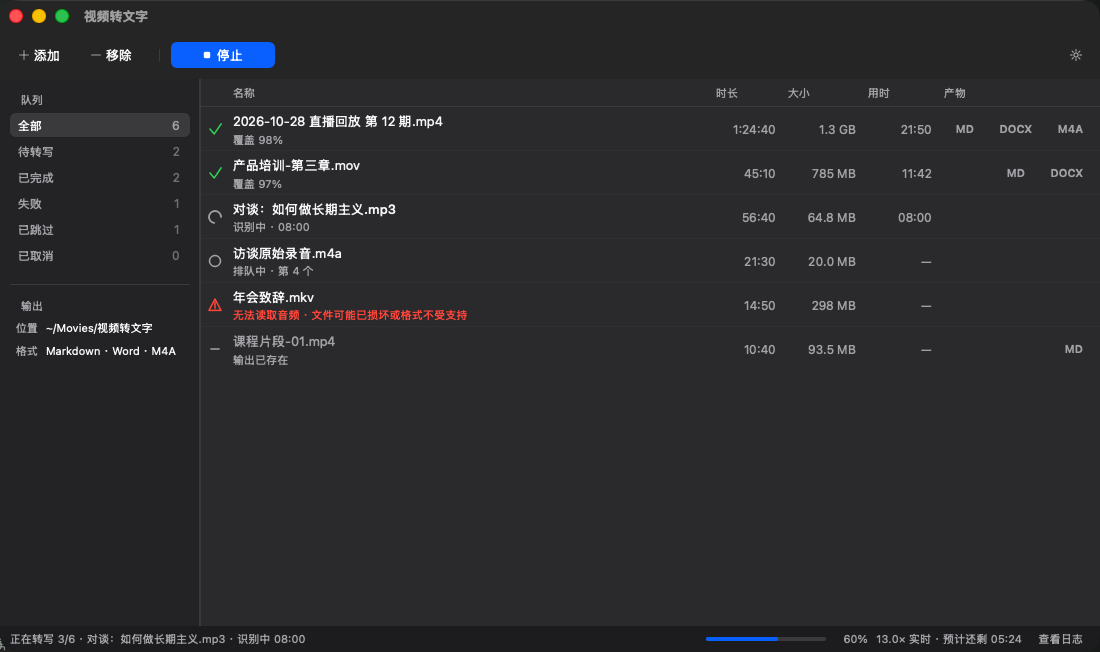
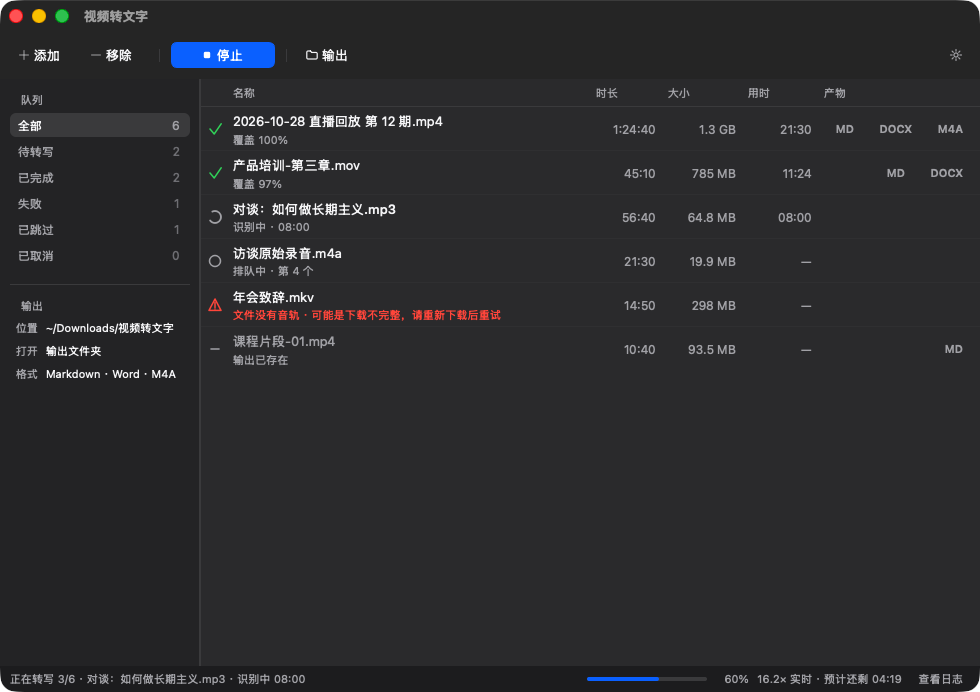
Save results in Downloads and make them easy to open
New installs now write under ~/Downloads/视频转文字, and settings that
still hold the old default migrate on load without touching custom
folders. The output folder is reachable from the toolbar, the sidebar,
the preferences dialog, a task's context menu, or by double-clicking a
finished row.

diff --git a/src/video_to_text/gui/window.py b/src/video_to_text/gui/window.py
@@ -271,6 +271,15 @@ class MainWindow(QMainWindow):
         self.start_button.clicked.connect(self._start_or_stop)
         bar.addWidget(self.start_button)
 
+        bar.addSeparator()
+
+        self.output_button = QToolButton()
+        self.output_button.setText("输出")
+        self.output_button.setToolButtonStyle(Qt.ToolButtonTextBesideIcon)
+        self.output_button.setToolTip("打开输出文件夹")
+        self.output_button.clicked.connect(self._open_output_dir)
+        bar.addWidget(self.output_button)
+
         spacer = QWidget()
         spacer.setSizePolicy(QSizePolicy.Expanding, QSizePolicy.Preferred)
         bar.addWidget(spacer)
@@ -394,9 +403,11 @@ class MainWindow(QMainWindow):
     def _connect(self) -> None:
         self.sidebar.filterChanged.connect(self._set_filter)
         self.sidebar.locationClicked.connect(self._pick_output_dir)
+        self.sidebar.openFolderClicked.connect(self._open_output_dir)
         self.sidebar.formatClicked.connect(lambda: self._open_prefs(TAB_FORMAT))
         self.content.pathsDropped.connect(self._add_paths)
         self.table.openOutputRequested.connect(self._open_output)
+        self.table.outputFolderRequested.connect(self._open_output_dir)
         self.table.revealRequested.connect(lambda path: reveal_path(Path(path)))
         self.table.retryRequested.connect(self._retry_task)
         self.table.copyPathRequested.connect(self._copy_path)
@@ -471,6 +482,7 @@ class MainWindow(QMainWindow):
         colors = tokens.active()
         self.add_button.setIcon(icon("plus", colors["text.primary"], 16))
         self.remove_button.setIcon(icon("minus", colors["text.primary"], 16))
+        self.output_button.setIcon(icon("folder", colors["text.primary"], 16))
         self.prefs_button.setIcon(icon("gear", colors["text.secondary"], 16))
         accent_fg = styles.accent_text(accent)
         if not self._running and not self.start_button.isEnabled():
@@ -493,6 +505,9 @@ class MainWindow(QMainWindow):
         self.sidebar.set_output(
             str(self.settings.get("output_dir") or ""),
             output_summary(formats, audio),
+        )
+        self.output_button.setToolTip(
+            f"打开输出文件夹\n{self.settings.get('output_dir') or ''}"
         )
         self.force_action.blockSignals(True)
         self.force_action.setChecked(bool(self.settings.get("force")))
@@ -763,6 +778,7 @@ class MainWindow(QMainWindow):
         snapshot = self.manager.snapshot()
         job = snapshot["job"]
         tasks = snapshot["tasks"]
+        was_running = self._running
         self._job = job
         self._tasks = tasks
         self._running = bool(job["running"])
@@ -786,6 +802,13 @@ class MainWindow(QMainWindow):
 
         if job["finished_at"]:
             self._job_finished = True
+        if was_running and not self._running and job.get("state") == "done":
+            made = counts.get("done", 0) + counts.get("skipped", 0)
+            if made:
+                self._flash(
+                    f"已生成 {made} 个输出 · {display_path(str(self._output_dir()))}",
+                    6000,
+                )
 
     def _filtered(self, tasks: list[dict]) -> list[dict]:
         key = self.sidebar.current_filter()

diff --git a/src/video_to_text/gui/tasklist.py b/src/video_to_text/gui/tasklist.py
@@ -193,6 +193,7 @@ class _Row:
 
 class TaskList(QTreeWidget):
     openOutputRequested = Signal(str, str)
+    outputFolderRequested = Signal()
     revealRequested = Signal(str)
     retryRequested = Signal(str)
     copyPathRequested = Signal(str)
@@ -240,6 +241,7 @@ class TaskList(QTreeWidget):
         self._hover = ""
 
         self.itemClicked.connect(self._item_clicked)
+        self.itemDoubleClicked.connect(self._item_double_clicked)
         self.customContextMenuRequested.connect(self._context_menu)
         self.itemSelectionChanged.connect(self.selectionChanged)
         self._spin = QTimer(self)
@@ -322,6 +324,8 @@ class TaskList(QTreeWidget):
             item.setTextAlignment(column, Qt.AlignRight | Qt.AlignVCenter)
 
         tips = [str(task.get("path") or ""), str(item.data(1, ROLE_DETAIL) or "")]
+        if status in {"done", "skipped"} and task.get("outputs"):
+            tips.append("双击打开文稿")
         warnings = task.get("warnings") or []
         if warnings:
             tips.append("提示：" + "；".join(warnings))
@@ -436,6 +440,18 @@ class TaskList(QTreeWidget):
             item.setExpanded(not item.isExpanded())
             self._position_errors()
 
+    def _item_double_clicked(self, item: QTreeWidgetItem, _column: int) -> None:
+        if item.parent() is not None:
+            item = item.parent()
+        task = self._tasks.get(str(item.data(0, ROLE_ID) or ""))
+        if task is None or task["status"] not in {"done", "skipped"}:
+            return
+        outputs = task.get("outputs") or {}
+        for kind in OUTPUT_KINDS:
+            if kind in outputs:
+                self.openOutputRequested.emit(task["id"], kind)
+                return
+
     def resizeEvent(self, event) -> None:  # noqa: N802
         super().resizeEvent(event)
         self._position_errors()
@@ -471,8 +487,10 @@ class TaskList(QTreeWidget):
         task = self._tasks.get(str(item.data(0, ROLE_ID) or "")) if item is not None else None
         menu = QMenu(self)
         if task is not None:
+            open_folder = menu.addAction("打开输出文件夹")
+            open_folder.triggered.connect(lambda: self.outputFolderRequested.emit())
             reveal = menu.addAction(
-                "在访达中显示" if sys.platform == "darwin" else "打开所在文件夹"
+                "在访达中显示源文件" if sys.platform == "darwin" else "打开源文件所在文件夹"
             )
             reveal.triggered.connect(lambda: self.revealRequested.emit(str(task["path"])))
             outputs = task.get("outputs") or {}

diff --git a/src/video_to_text/gui/prefs.py b/src/video_to_text/gui/prefs.py
@@ -14,6 +14,7 @@ from PySide6.QtWidgets import (
     QHBoxLayout,
     QLabel,
     QLineEdit,
+    QMessageBox,
     QPushButton,
     QTabWidget,
     QVBoxLayout,
@@ -75,12 +76,18 @@ class PreferencesDialog(QDialog):
         row.setSpacing(8)
         self.output_edit = QLineEdit()
         self.output_edit.setReadOnly(True)
+        self.open_output_button = QPushButton("打开")
+        self.open_output_button.clicked.connect(self._open_output)
         self.change_output_button = QPushButton("更改…")
         self.change_output_button.clicked.connect(self._pick_output)
         row.addWidget(self.output_edit, 1)
+        row.addWidget(self.open_output_button)
         row.addWidget(self.change_output_button)
         layout.addLayout(row)
-        layout.addWidget(_hint("转写产物保存到这个文件夹；不存在的文件夹会自动创建。"))
+        layout.addWidget(_hint(
+            "转写产物默认保存在“下载/视频转文字”，也可以点“更改…”另选文件夹；"
+            "不存在的文件夹会自动创建。"
+        ))
         layout.addStretch(1)
         return page
 
@@ -205,6 +212,17 @@ class PreferencesDialog(QDialog):
             self.output_edit.setText(folder)
             self.output_edit.setToolTip(folder)
             self._changed()
+
+    def _open_output(self) -> None:
+        folder = Path(
+            self.output_edit.text().strip() or config.default_output_dir()
+        ).expanduser()
+        try:
+            folder.mkdir(parents=True, exist_ok=True)
+        except OSError as exc:
+            QMessageBox.warning(self, "无法打开文件夹", str(exc))
+            return
+        open_path(folder)
 
     def _collect(self) -> dict:
         formats = []

diff --git a/tests/test_config.py b/tests/test_config.py
@@ -53,6 +53,30 @@ class ConfigTests(unittest.TestCase):
                 loaded = config.load_settings()
             self.assertEqual(loaded, config.defaults())
 
+    def test_default_output_lives_in_downloads(self):
+        self.assertEqual(
+            config.defaults()["output_dir"],
+            str(Path.home() / "Downloads" / "视频转文字"),
+        )
+
+    def test_legacy_default_output_migrates(self):
+        legacy = str(Path.home() / "Documents" / "Video to Text")
+        with tempfile.TemporaryDirectory() as tmp:
+            path = Path(tmp) / "settings.json"
+            path.write_text(json.dumps({"output_dir": legacy}), encoding="utf-8")
+            with mock.patch.object(config, "config_dir", lambda: Path(tmp)):
+                loaded = config.load_settings()
+        self.assertEqual(loaded["output_dir"], str(config.default_output_dir()))
+
+    def test_custom_output_is_not_migrated(self):
+        custom = str(Path.home() / "Videos" / "我的文稿")
+        with tempfile.TemporaryDirectory() as tmp:
+            path = Path(tmp) / "settings.json"
+            path.write_text(json.dumps({"output_dir": custom}), encoding="utf-8")
+            with mock.patch.object(config, "config_dir", lambda: Path(tmp)):
+                loaded = config.load_settings()
+        self.assertEqual(loaded["output_dir"], custom)
+
     def test_save_uses_validated_copy(self):
         with tempfile.TemporaryDirectory() as tmp:
             with mock.patch.object(config, "config_dir", lambda: Path(tmp)):

diff --git a/src/video_to_text/gui/sidebar.py b/src/video_to_text/gui/sidebar.py
@@ -156,6 +156,7 @@ class Sidebar(QFrame):
     filterChanged = Signal(str)
     locationClicked = Signal()
     formatClicked = Signal()
+    openFolderClicked = Signal()
 
     def __init__(self) -> None:
         super().__init__()
@@ -188,6 +189,10 @@ class Sidebar(QFrame):
         self.location_row.clicked.connect(self.locationClicked)
         layout.addWidget(self.location_row)
 
+        self.open_row = OutputRow("打开")
+        self.open_row.clicked.connect(self.openFolderClicked)
+        layout.addWidget(self.open_row)
+
         self.format_row = OutputRow("格式")
         self.format_row.clicked.connect(self.formatClicked)
         layout.addWidget(self.format_row)
@@ -204,10 +209,14 @@ class Sidebar(QFrame):
         self.filters.set_filter(key)
 
     def set_output(self, location: str, formats: str) -> None:
-        self.location_row.set_value(display_path(location), location)
+        self.location_row.set_value(
+            display_path(location), f"{location}\n点击更改保存位置"
+        )
+        self.open_row.set_value("输出文件夹", "在文件管理器中打开输出文件夹")
         self.format_row.set_value(formats or "未选择", formats)
 
     def refresh_theme(self) -> None:
         self.filters.viewport().update()
         repolish(self.location_row)
+        repolish(self.open_row)
         repolish(self.format_row)

diff --git a/tests/test_ui.py b/tests/test_ui.py
@@ -79,6 +79,7 @@ class MainWindowTests(unittest.TestCase):
 
     def test_initial_state(self):
         self.assertFalse(self.window.start_button.isEnabled())
+        self.assertTrue(self.window.output_button.isEnabled())
         self.assertEqual(self.window.table.topLevelItemCount(), 0)
         self.assertIs(
             self.window.content.stack.currentWidget(), self.window.empty_page
@@ -147,6 +148,23 @@ class MainWindowTests(unittest.TestCase):
         self.assertEqual(self.window._job["state"], "done")
         self.assertEqual(self.window._job["skipped"], 2)
         self.assertEqual(self.window._counts["skipped"], 2)
+
+    def test_double_click_opens_primary_output(self):
+        paths = self._add_media(1)
+        self._write_markdown(paths[0])
+        self.window.settings["formats"] = ["md"]
+        self.window.settings["audio_format"] = "none"
+        self.window._apply_settings_ui()
+        self.window._start_job()
+        self.window._refresh(force=True)
+        opened: list[str] = []
+        self.window.table.openOutputRequested.connect(
+            lambda _task_id, kind: opened.append(kind)
+        )
+        self.window.table._item_double_clicked(
+            self.window.table.topLevelItem(0), 1
+        )
+        self.assertEqual(opened, ["md"])
 
     def test_styles_build_for_both_schemes(self):
         for dark in (False, True):

diff --git a/src/video_to_text/config.py b/src/video_to_text/config.py
@@ -20,9 +20,16 @@ def config_dir() -> Path:
 
 
 def default_output_dir() -> Path:
-    docs = Path.home() / "Documents"
-    base = docs if docs.is_dir() else Path.home()
-    return base / "Video to Text"
+    return Path.home() / "Downloads" / "视频转文字"
+
+
+def legacy_output_dirs() -> set[str]:
+    """Defaults used before 1.0; loading one of these upgrades it silently."""
+    home = Path.home()
+    return {
+        str(home / "Documents" / "Video to Text"),
+        str(home / "Video to Text"),
+    }
 
 
 def defaults() -> dict:
@@ -62,7 +69,10 @@ def load_settings() -> dict:
     try:
         with path.open(encoding="utf-8") as fh:
             data = json.load(fh)
-        return _valid(data if isinstance(data, dict) else {})
+        out = _valid(data if isinstance(data, dict) else {})
+        if out["output_dir"] in legacy_output_dirs():
+            out["output_dir"] = str(default_output_dir())
+        return out
     except (OSError, ValueError):
         return defaults()
 

diff --git a/README.md b/README.md
@@ -19,6 +19,7 @@
 
 - 选择多个文件或整个文件夹批量转写；递归读取子文件夹，也可以直接把文件、文件夹拖进窗口。
 - 队列可按状态筛选（待转写 / 已完成 / 失败 / 已跳过 / 已取消），逐行查看时长、大小、用时和已经生成的产物。
+- 产物默认保存到“下载/视频转文字”；工具栏“输出”、侧栏“打开”、双击任务行都可以一步打开结果，保存位置也可随时更改。
 - 导出 Markdown（`.md`）与 Word（`.docx`），同时可导出 M4A（默认）或 WAV 音频。
 - 每篇文稿包含：带时间轴的逐句文稿、连续文稿、以及“数据来源与局限”。
 - 同一来源的文稿已存在时自动跳过；在偏好设置里勾选“重新转写已存在的文稿”可强制覆盖。
@@ -73,10 +74,10 @@
 ## 使用
 
 1. **添加素材**：点工具栏“添加 ▾”，选“选择文件…”（⌘O）或“选择文件夹…”（⇧⌘O）；也可以把文件、文件夹直接拖进窗口。文件夹会递归读取。
-2. **设置输出**：点左侧“位置”更换保存目录，点“格式”打开格式设置；也可以按 ⌘, 打开偏好设置。文稿至少选 Markdown 或 Word 之一，音频可选 M4A、WAV 或不导出。
+2. **设置输出**：默认保存在“下载/视频转文字”。点左侧“位置”可以更换保存目录，点“打开”直接打开输出文件夹；点“格式”打开格式设置，也可以按 ⌘, 打开偏好设置。文稿至少选 Markdown 或 Word 之一，音频可选 M4A、WAV 或不导出。
 3. **开始转写**：点“开始转写”（⌘↩）。列表里正在处理的文件会显示当前阶段和已用时间；底部状态条显示按素材时长加权的总进度、速度和预计剩余时间。速度和剩余时间都是估算值，素材差异大时会有偏差。
 4. **运行中**：按钮变成“停止”（⌘.）。停止立即生效：当前文件不留下不完整的产物，已完成的结果保留，未开始的文件标记为“已取消”。运行期间不能添加或移除素材，对应操作会禁用。
-5. **查看结果**：点任务行尾的 MD / DOCX / M4A 按钮直接打开对应产物，或点底部“打开输出文件夹”。失败的行点左侧状态图标可展开完整错误；“查看日志”会展开底部日志抽屉。
+5. **查看结果**：点任务行尾的 MD / DOCX / M4A 按钮直接打开对应产物，或双击任务行打开主文稿；工具栏常驻的“输出”按钮和底部“打开输出文件夹”随时打开保存目录。失败的行点左侧状态图标可展开完整错误；“查看日志”会展开底部日志抽屉。
 
 偏好设置 → 性能里可以设置同时转写的文件数（1–4）和是否强制重新转写。并发 2 能提高总吞吐但更吃内存，16 GB 内存建议 1–2。
 
@@ -140,7 +141,7 @@ macOS 产物是 `dist/视频转文字.app`，Windows 产物是 `dist/VideoToText
 
 ## 验证状态（2026-10-30）
 
-- 界面改版（2026-10-30）：macOS Apple Silicon 原生窗口完成浅色 / 深色视觉验收，截图取自真实窗口（`docs/screenshot.png`、`docs/screenshot-dark.png`），不是效果图；源码自检退出码 0；测试共 42 项全部通过（不加载模型，覆盖任务队列与离屏 Qt 界面）。
+- 界面改版（2026-10-30）：macOS Apple Silicon 原生窗口完成浅色 / 深色视觉验收，截图取自真实窗口（`docs/screenshot.png`、`docs/screenshot-dark.png`），不是效果图，且已按 1.0 的新工具栏与“打开”入口重拍；源码自检退出码 0；测试共 46 项全部通过（不加载模型，覆盖任务队列、输出路径迁移与离屏 Qt 界面）。
 - 仓库审查（2026-10-30）：CI 在 push / pull request 时于 Ubuntu、macOS arm64、Windows 三平台运行测试，只有打 tag 或手动触发才构建安装包；ffmpeg 下载按 PyPI 公布的 SHA-256 校验；应用版本号统一取自 `pyproject.toml`。
 - 打包：`dist/视频转文字.app` 已用 PyInstaller 6.22.3 按当前 spec 重建（版本号读取自 `pyproject.toml`），自检全项通过（ffmpeg、torch / FunASR / ModelScope、多进程、音频抽取与 M4A、断句标点、Markdown、DOCX、Qt、图标）；ad-hoc 签名 `codesign --verify --deep --strict` 通过；重新启动后确认新工具栏、侧边栏、空状态与底部状态条渲染正常。重新生成的 `VideoToText-macos-arm64.zip` 解压后签名验证与自检同样通过，SHA-256 见 `SHA256SUMS.txt`。
 - 转写内核（2026-10-25）：同一 ASR 内核跑过真实 28 分钟中文音频（396 段，覆盖 98%），以及 29 秒中文口播端到端（md + docx + m4a，3 段，覆盖 85%），取消任务后状态为“已取消”。本次只改界面与队列控制，未改动转写和产物链路；但**尚未用新界面跑真实素材**，界面与队列联动的真实长跑待补。
